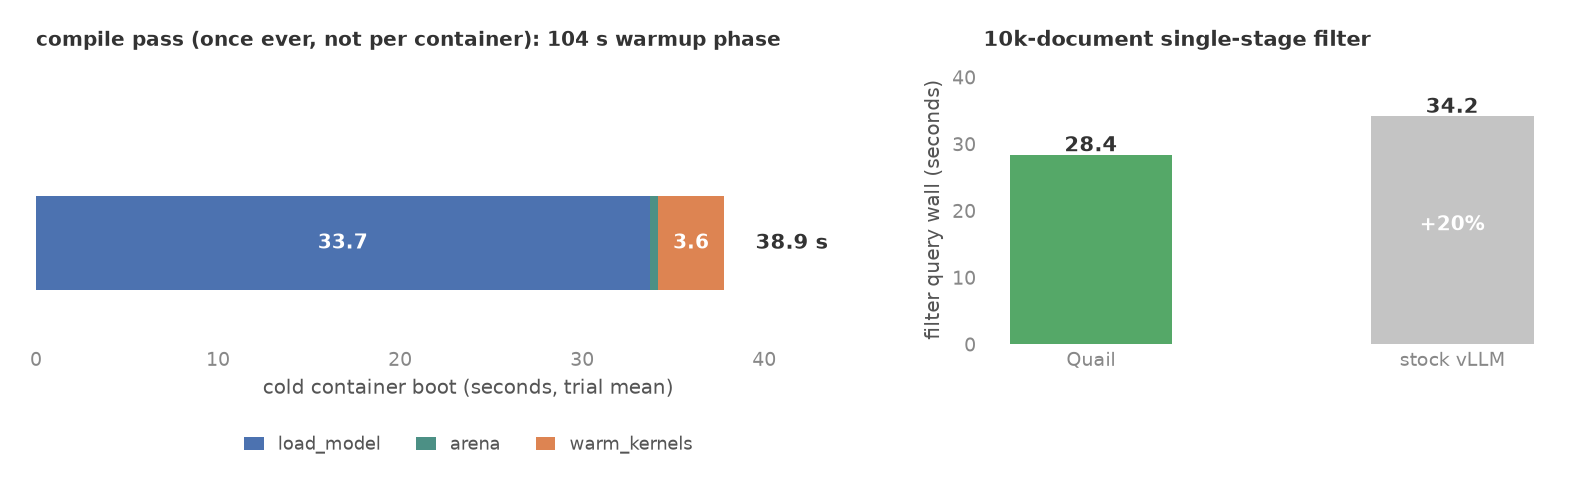
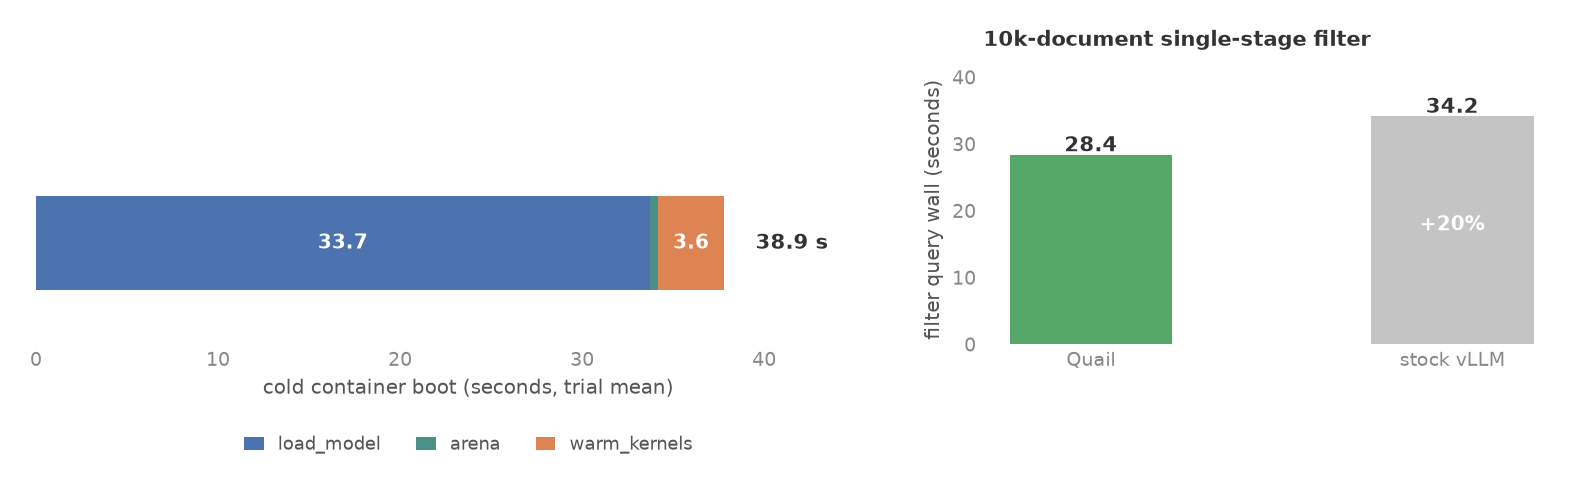
boot_tiered plot: drop the compile-pass title from the phases panel
The title described the compile pass while the bar shows a touch-pass
boot; the compile-pass number lives in the report text.

Claude-Session: https://claude.ai/code/session_01B1e7WkXJap1QgTaqrRG9xU

Changed region(s): [[0.0308, 0.0611, 0.4934, 0.0916]]

diff --git a/quail/reports/make_boot_plots.py b/quail/reports/make_boot_plots.py
@@ -27,14 +27,12 @@ plt.style.use(HERE / "quail.mplstyle")
 sys.path.insert(0, str(HERE))
 from plot_colors import BLUE, GRAY, GREEN, ORANGE, RED, TEAL, DARK
 
-tiered = json.load(open(RESULTS / "boot_tiered.json"))
 # boot phases from the profiler-off control: py-spy adds ~4.6 s to
 # the warm phase
 nospy = json.load(open(RESULTS / "boot_tiered_nospy.json"))
 stock_q = json.load(open(RESULTS / "baseline_filter1.json"))
 
 new_cold = nospy["touch"]["cold"]
-compile_cold = tiered["compile"]["cold"]
 
 
 def mean_s(agg, key):
@@ -73,10 +71,6 @@ ax_boot.legend(
     handles=[Patch(facecolor=c, label=n) for n, _, c in PHASES],
     loc="upper center", bbox_to_anchor=(0.5, -0.28), ncol=3,
     fontsize=8.5, handlelength=1.1)
-ax_boot.set_title(
-    f"compile pass (once ever, not per container): "
-    f"{compile_cold['warm_kernels_s']:.0f} s warmup phase",
-    fontsize=9.5, loc="left", color=DARK)
 
 # ---- right: first query after boot vs stock vLLM --------------------
 best = nospy["query"]["best_wall"]["no_arena"]
